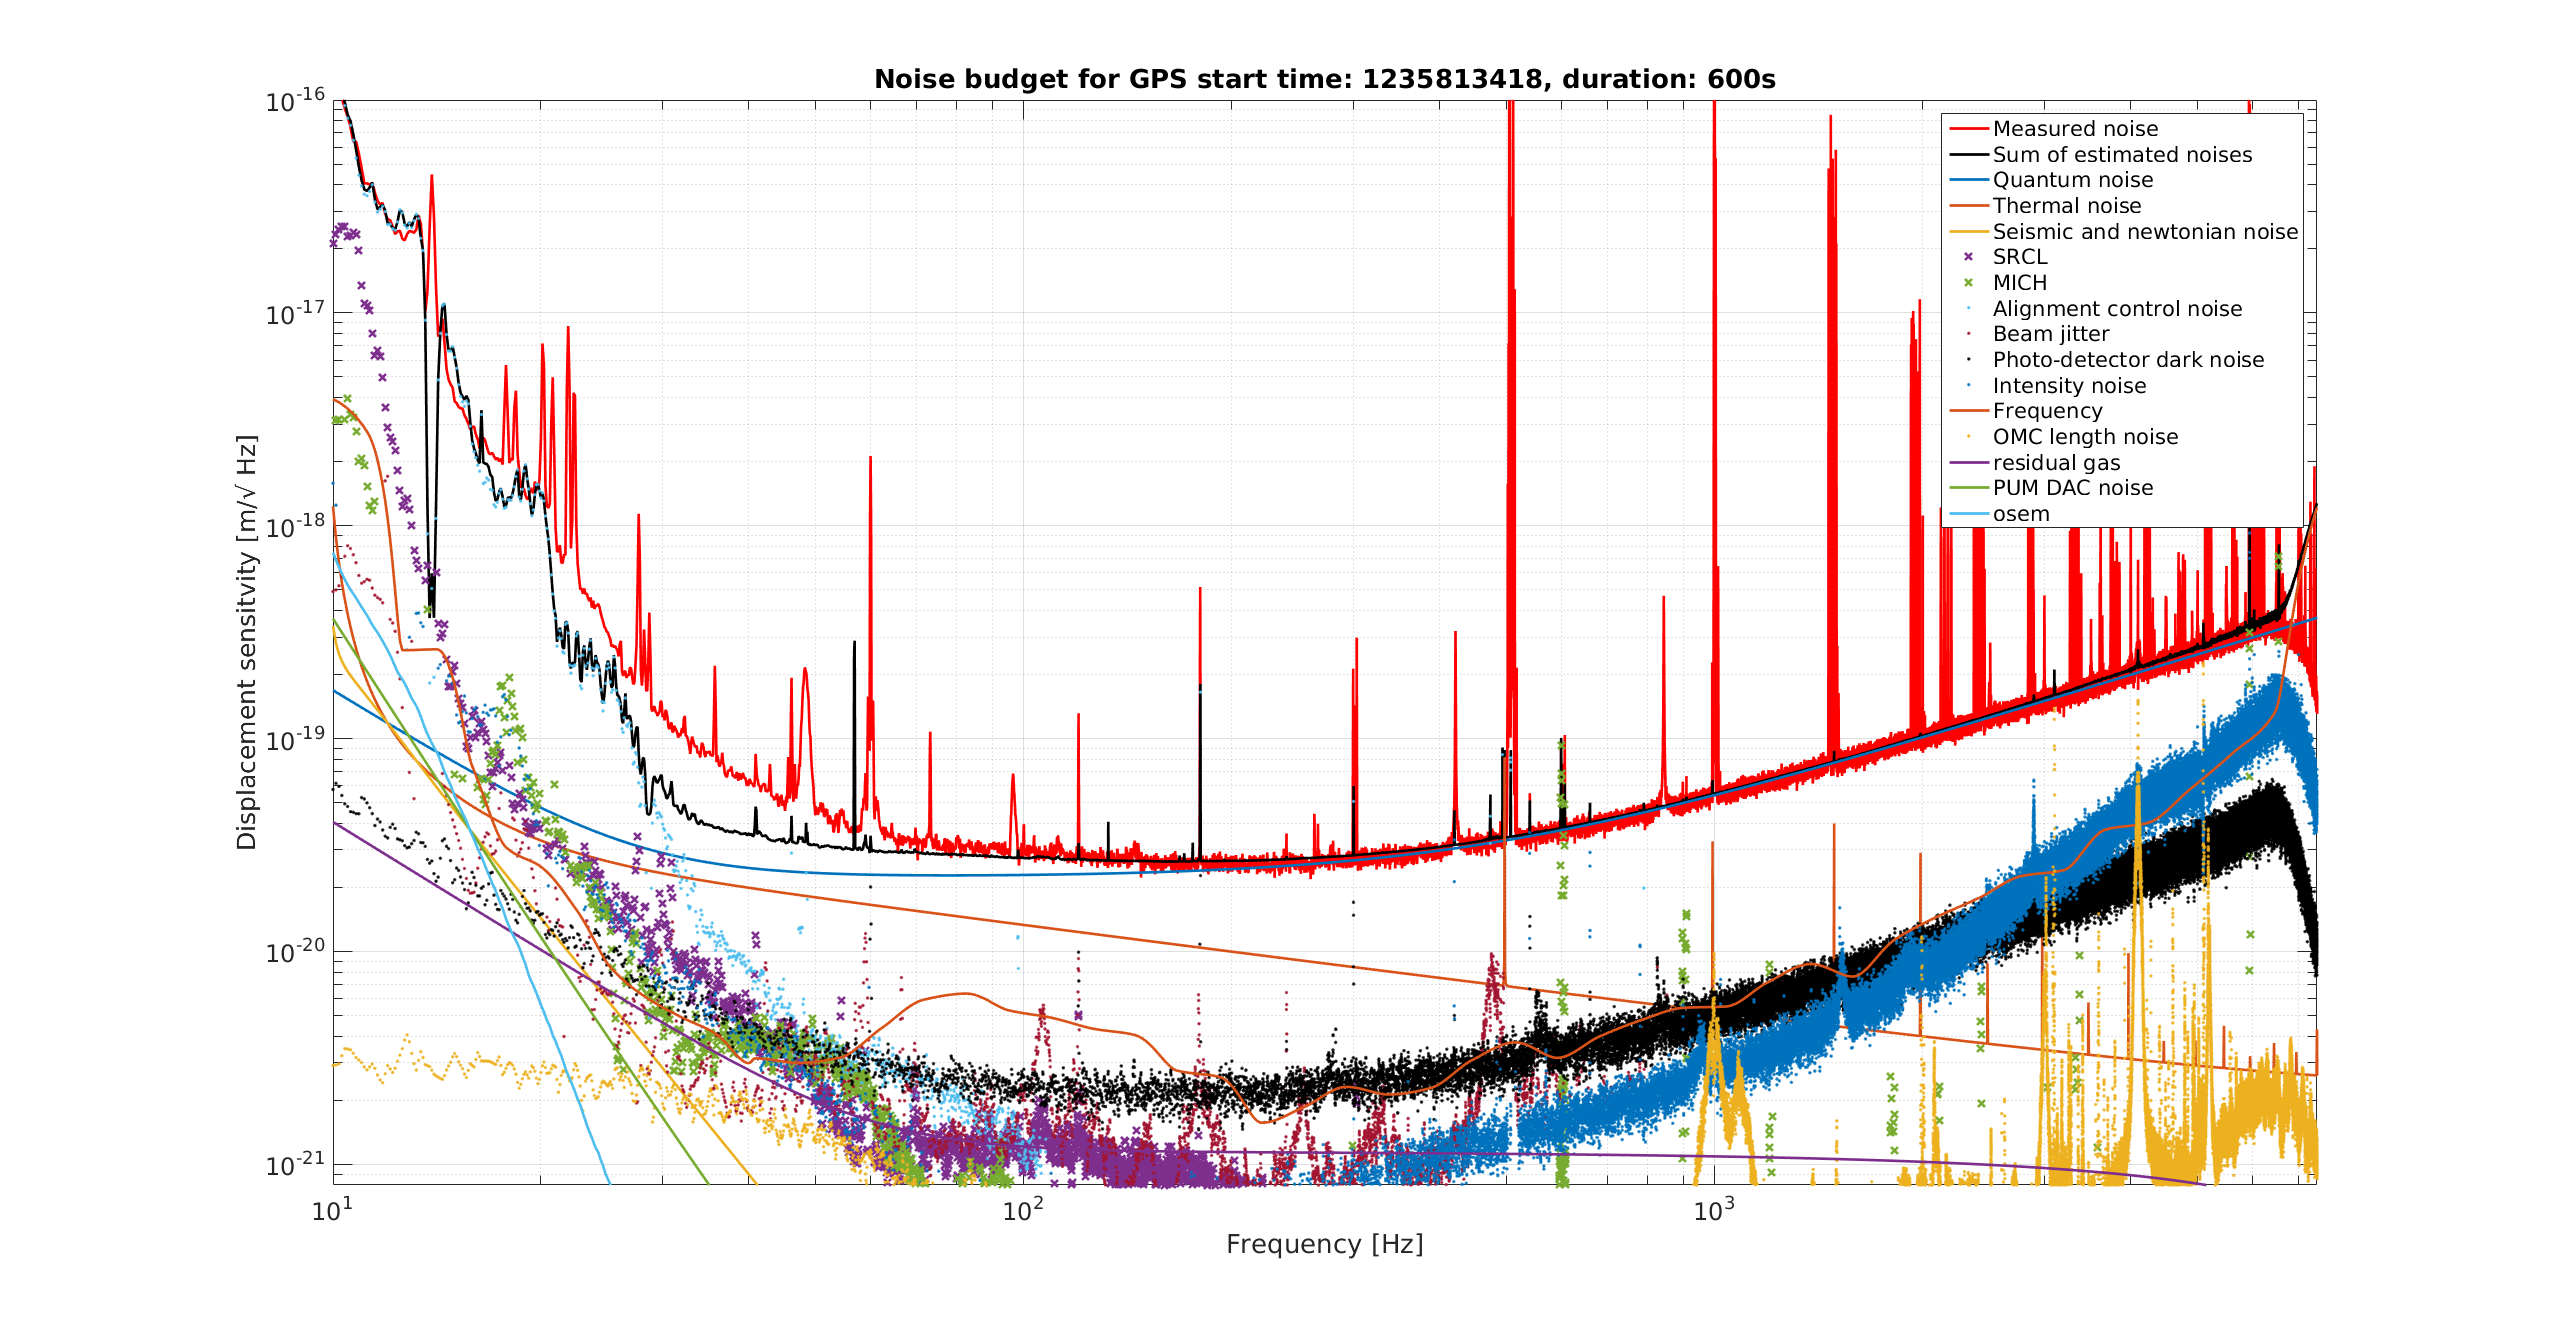
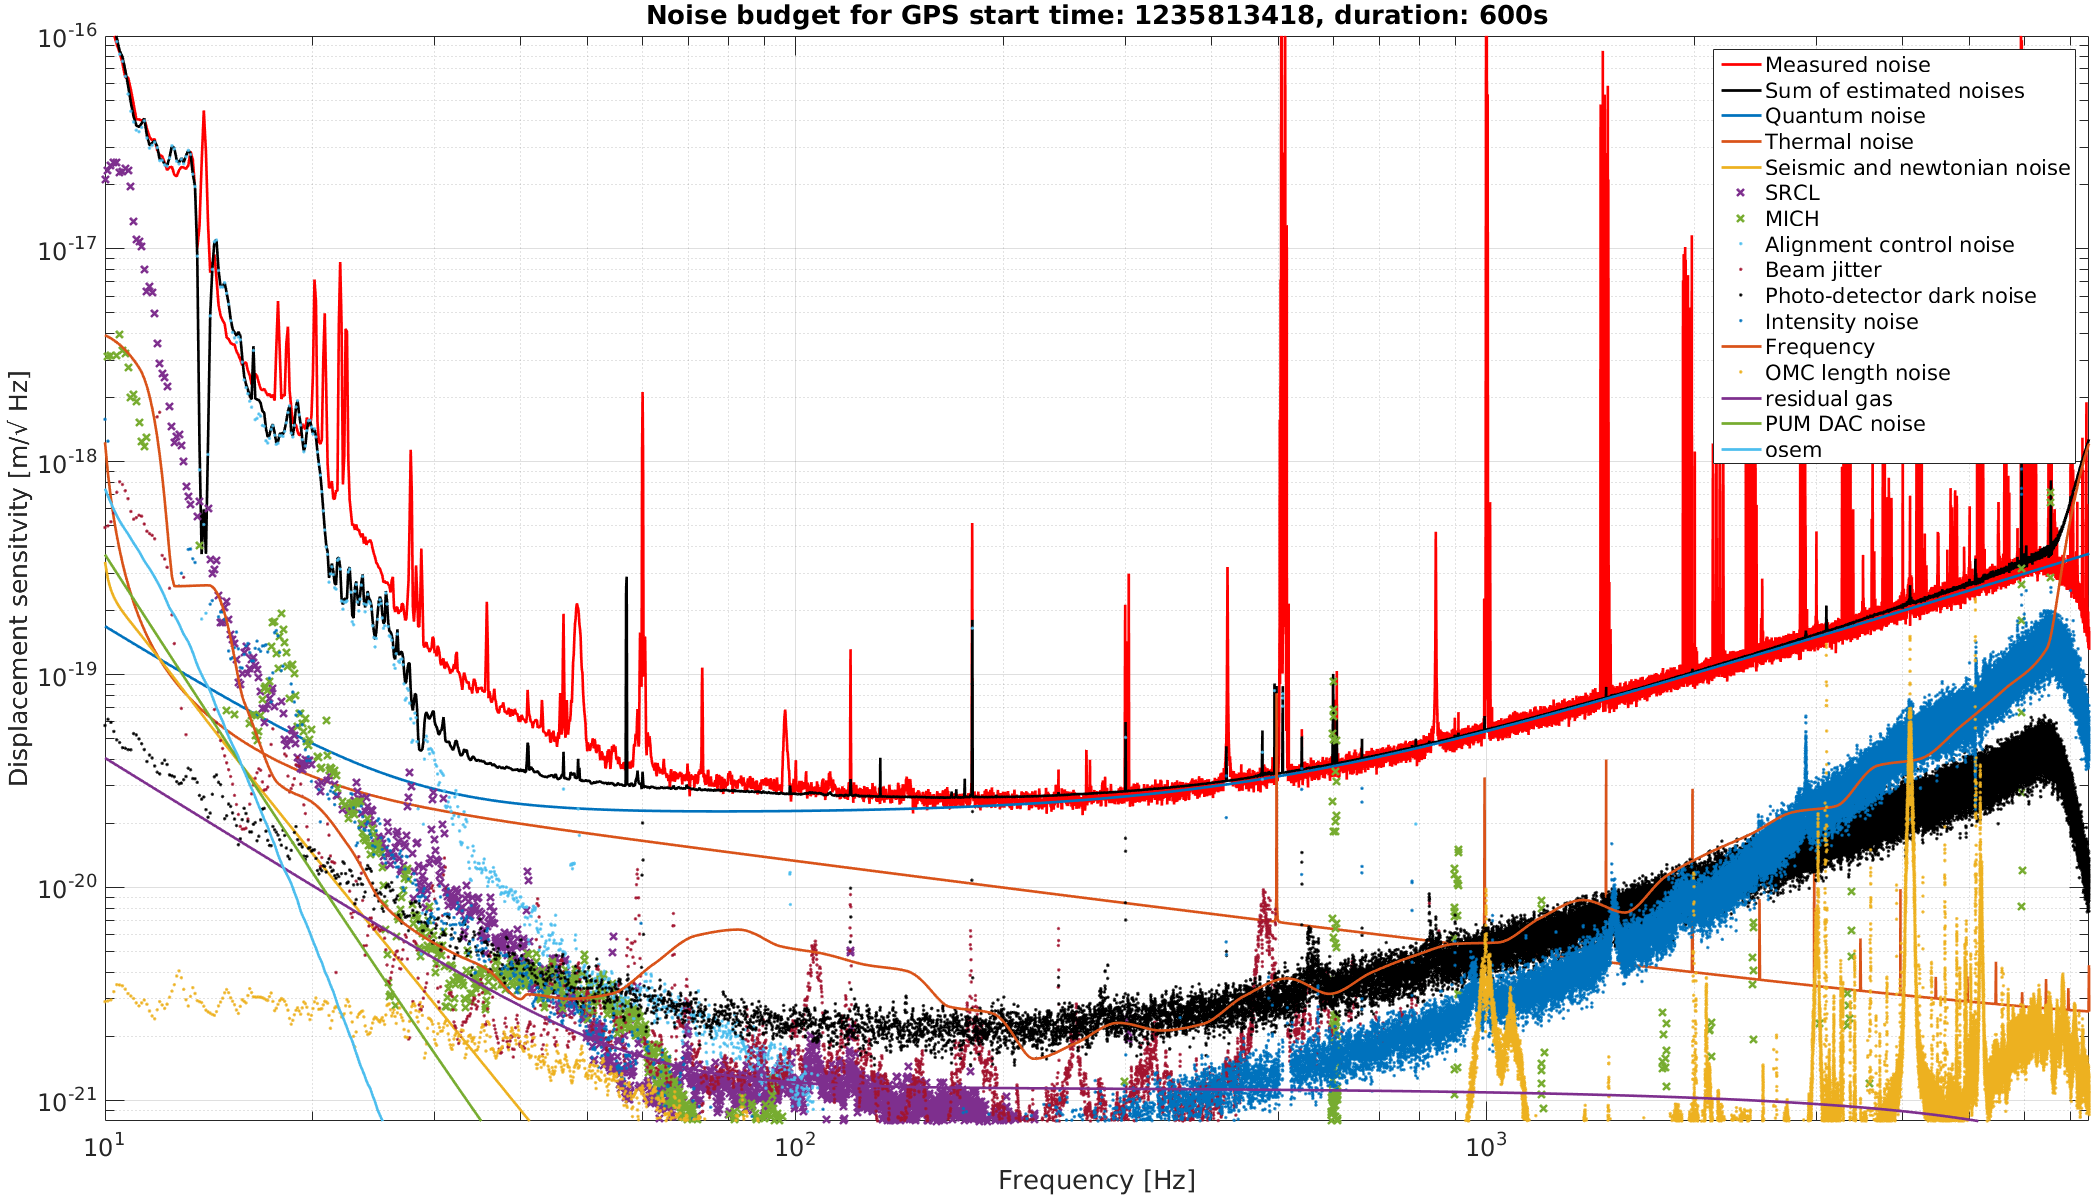
Updating noise budget figure with a better crop

diff --git a/chapters/hanford_tcs.tex b/chapters/hanford_tcs.tex
@@ -172,7 +172,7 @@ With continued observation and comissioning at high power (>180 kW) point absorb
 
 \subsubsection{Impacts}
 \paragraph{Frequency noise}
-One of the beneficial features of interferometry is the ability to filter common mode noise (i.e. laser intensity and frequency noise). Though these benefits are contingent upon the ability to preserve the arm symmetries. Destruction of such symmetry as mode overlap proportionally destroys such benefits and presents itself in DARM.
+One of the beneficial features of interferometry is common mode noise filtering (i.e. laser intensity and frequency noise). Though these benefits are contingent upon the ability to preserve arm symmetry. Intentional asymmetries like the Schnupp asymmetry, a macroscopic differential length offset introduced in order to pass optical sidebands for normal interferometer functionality and stability, is well known and designed to keep common mode noise low. Meanwhile, common arm cancellation can is exacerbated proportionally with the amount of mode mismatch.
 
 \begin{figure}[H]
     \includegraphics[width=\textwidth]{TCS/NB_1235813418.pdf}
@@ -183,15 +183,13 @@ One of the beneficial features of interferometry is the ability to filter common
 Thorough investigation of the LIGO frequency noise determined the proportional increase of the LIGO frequency and intensity noise with increased power \cite{buikema:2020}.
 
 \paragraph{Control signals}
-Holding delicate resonance conditions throughout the coupled cavity configuration necessitates resonable optical sideband relative carrier gain (dBc) for the PDH loops to function. And it is with careful planning that the macroscopic recycling cavity geometry is planned so that sideband resonance boosts the signal. The point absorber on an ITM directly impacts this buildup, frequently inducing a lockloss. 
+Holding delicate resonance conditions throughout the coupled cavity configuration necessitates a resonable optical sideband relative carrier gain (dBc) for the PDH loops to function. And it is with careful planning that the macroscopic recycling cavity geometry is planned so that sideband resonance boosts the signal. The point absorber on an ITM directly impacts this buildup, frequently inducing a lockloss. 
 
-\begin{figure}[H]
-    \includegraphics[width=\textwidth]{TCS/pa_PRCL_lockloss.pdf}
-    \caption{The transient response of the ITMY point absorbers on the Power Recycling Cavity length sideband feedback signal(PRCL) leading to a lockloss as the interferometer reaches thermal equilibrium.}
-    \label{fig:pa_PRCL_lockloss}
-\end{figure}
-
-%\textcolor{red}{Sensor schema for interferometer control and dramatic impact to optical sidebands (higher order beat signals)}
+%\begin{figure}[H]
+%    \includegraphics[width=\textwidth]{TCS/pa_PRCL_lockloss.pdf}
+%    \caption{The transient response of the ITMY point absorbers on the Power Recycling Cavity length sideband feedback signal(PRCL) leading to a lockloss as the interferometer reaches thermal equilibrium.}
+%    \label{fig:pa_PRCL_lockloss}
+%\end{figure}
 
 
 \paragraph{Higher order mode at DCPD}
@@ -205,7 +203,7 @@ The installation location of the mask and size was established using the relevan
 The extremely strict alignment requirement introduced difficulties while attempting to fulfill the promise of restoring uniform absorption. And although the presence of the absorber symptoms show coorelation with their prominence at high power, their collective reduction proved to be not straightfoward~\cite{brooks:aigwd2019, buikema:2020}. 
 
 \subsection{Custom CO2 mask}
-A mask was installed in front of the CO2 laser actuator combined with a RH offset to attempt restoring uniform thermo-optic absorption, with inconclusive results on account of the narrow alignment requirement while attempting to improve sideband (PRCL) power buildup. 
+A mask was installed in front of the CO2 laser actuator combined with a RH offset to attempt restoring uniform thermo-optic absorption, with inconclusive results on account of the nature of narrow alignment requirements while attempting to improve sideband (PRCL) power buildup. 
 
 \subsection{Interferometer to OMC mode matching}
 High absorption points also lead to significant offsets in RH and CO2 actuation for offending test masses leading tothermal offsets for observatory operation. This lead to further interferometer mode matching considerations requiring more subtle actuation solutions than anticipated. Improvement metrics included the measurement of higher order mode content at the detector output as well as inserting dither lines in the feedback loops to track the movement of sideband buildups
@@ -216,7 +214,7 @@ High absorption points also lead to significant offsets in RH and CO2 actuation 
 
 \subsubsection{SR3 RH}
 
-\subsection{TM position offset}
+\subsection{Beam position offset}
 
 
 %\begin{figure}[H]

diff --git a/chapters/intro.tex b/chapters/intro.tex
@@ -86,6 +86,8 @@ Where $E_o$ is a complex field amplitude, $r^{2}/(2(R(z))$ defines transverse co
 	\eta = \bigg|\int E_x E_y dA \bigg|^{2} \bigg/ (P_x P_y) 
 \end{equation}
 
+\begin
+
 Significant length offsets between the arms can contribute to mismatching of the beam mode wavefronts interfering at the beamsplitter. Though an interferometer contrast ($\nu$) measurement may do just as well without more involved beam mode analysis:
 
 \begin{equation}\label{eq:contrast}
@@ -170,14 +172,14 @@ Also mentioned, albeit in passing, is the importance of the overlap between mirr
 
 \begin{equation}\label{eq:HG_beam}
 	\begin{split}
-		E_\mathrm{n,m}(x,y,z) = & E_o \frac{\sqrt{[\lambda z_o] / \pi}}{W(z)}\mathbb{H}_\mathrm{n}\bigg(\frac{\sqrt{2}x}{W(z)}\bigg)\mathbb{H}_\mathrm{m}\bigg(\frac{\sqrt{2}x}{W(z)}\bigg)\\
+		TEM_\mathrm{n,m}(x,y,z) = & E_o \frac{\sqrt{[\lambda z_o] / \pi}}{W(z)}\mathbb{H}_\mathrm{n}\bigg(\frac{\sqrt{2}x}{W(z)}\bigg)\mathbb{H}_\mathrm{m}\bigg(\frac{\sqrt{2}x}{W(z)}\bigg)\\
 					& \times \mathrm{exp}\bigg(\frac{-(x^2+y^2)}{W^2(z)}\bigg) \mathrm{exp}\bigg(-ikz - ik\frac{x^2 + y^2}{2R(z)} + i (1+\mathrm{n}+\mathrm{m})\zeta(z)\bigg)
 	\end{split}
 \end{equation}
 \begin{equation}\label{eq:LG_beam}
 	\begin{split}
-	E_\mathrm{l,m}(r,\phi,z) = & E_o \frac{\sqrt{[\lambda z_o] / \pi}}{W(z)} \bigg(\frac{\rho}{W(z)}\bigg)^\mathrm{l}\mathbb{L}^{\mathrm{l}}_{\mathrm{m}}\bigg(\frac{\sqrt{2}x}{W(z)}\bigg)\\
-				   &  \times \mathrm{exp}\bigg(-\frac{\rho^2}{W^2(z)}\bigg) \mathrm{exp}\bigg(-ikz - ik\frac{\rho^2}{2R(z))} - i\mathrm{l}\phi + i (1+\mathrm{l}+2\mathrm{m})\zeta(z)\bigg)
+	TEM_\mathrm{p,l}(r,\phi,z) = & E_o \frac{\sqrt{[\lambda z_o] / \pi}}{W(z)} \bigg(\frac{\rho}{W(z)}\bigg)^\mathrm{p}\mathbb{L}^{\mathrm{p}}_{\mathrm{l}}\bigg(\frac{\sqrt{2}x}{W(z)}\bigg)\\
+				   &  \times \mathrm{exp}\bigg(-\frac{\rho^2}{W^2(z)}\bigg) \mathrm{exp}\bigg(-ikz - ik\frac{\rho^2}{2R(z))} - i\mathrm{p}\phi + i (1+\mathrm{p}+2\mathrm{l})\zeta(z)\bigg)
 	\end{split}
 \end{equation}
 
